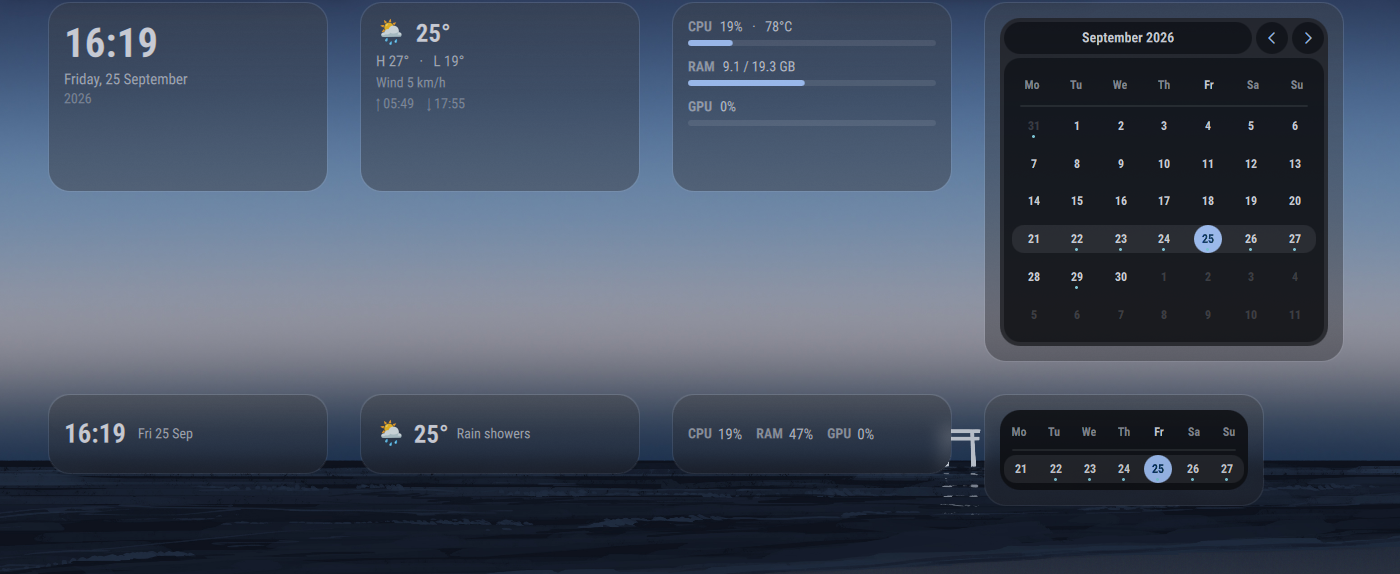
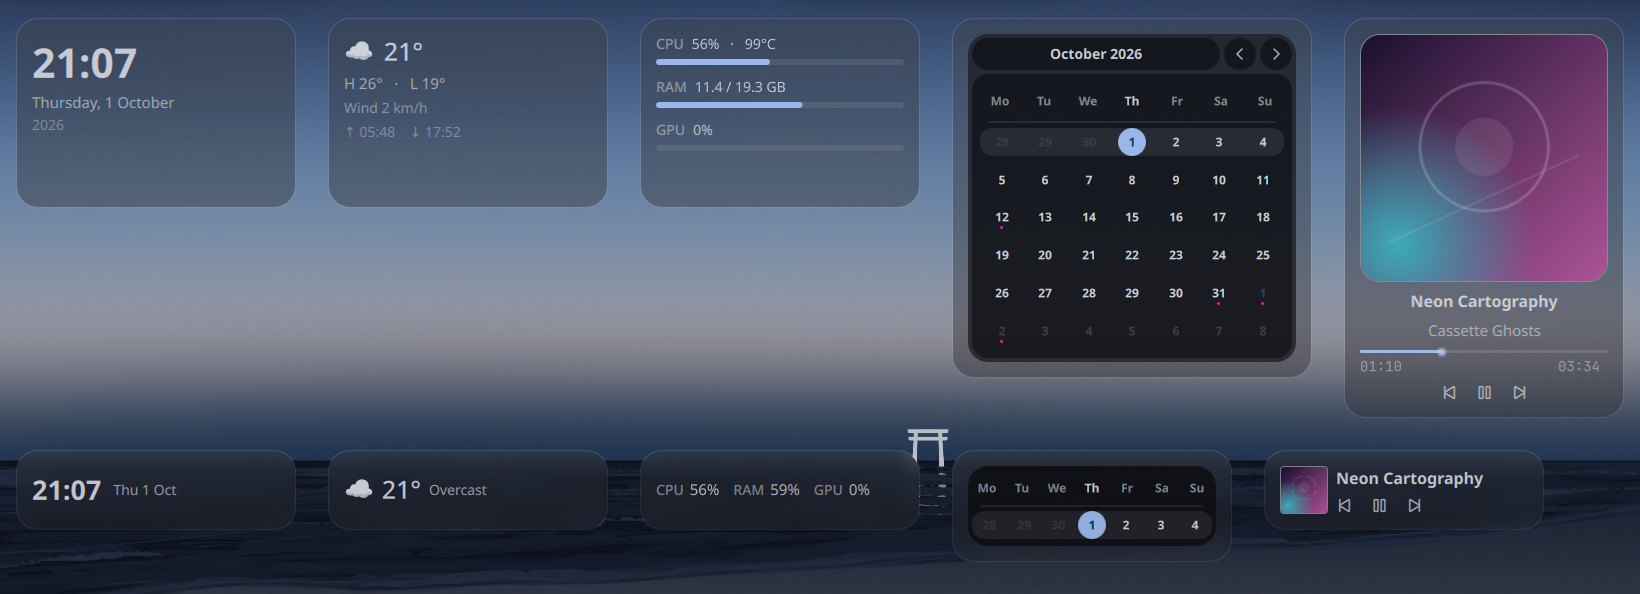
docs(desktop-widgets): the families capture with the player card, and two harness fixes behind it
The README's families shot predated the player card: four widgets, and a caption that said so.
It is now all five in both of their families — taken on a headless output with a throwaway
layout (the user's restored byte-exact), cropped below the bar, and with a fixture player so the
rows a reader is asked to trust are actually filled.

Getting there needed two fixes in the harness, both of them the same kind of silence:

* The layout file is written ATOMICALLY now. The shell WATCHES it, and a partial read parses to
  ZERO widgets: every card left the screen while the harness's own green light — "the layout
  applied (22% changed)" — read a LARGE diff, because the cards are exactly what went missing.
  It photographed an empty desktop and reported success. Write beside the file, `os.replace`.
* `assert_cards` asks the capture for a hard edge inside the first card's own box before the run
  reports success: a card's border is an edge and the wallpaper behind it is a gradient, so a
  box that is all gradient is a box where nothing was painted. That is the failure a pixel diff
  cannot see, and it is now the one that stops the run.

The restore is atomic too, for a stronger reason than the write: it runs over the user's OWN
file, and a half-read layout there is every card gone from their desktop. (This was not
hypothetical: an exception between the two left the throwaway layout in place for a few
minutes, and it was visible on their screens.)
[…]

diff --git a/packages/desktop-widgets/tests/family-size-preview.py b/packages/desktop-widgets/tests/family-size-preview.py
@@ -1,22 +1,29 @@
 #!/usr/bin/env python3
-"""Capture the four widgets in their tiers side by side on a HEADLESS output.
+"""Capture the widgets in their tiers side by side on a HEADLESS output.
 
-Two rows of the same four cards: the top row at the families the designs place (clock,
-weather and system at `full`, the calendar at `full`), the bottom row at each card's
-`compact` — the tier the menu applies when you pick Minimal, which is also the size that
-tier declares (280x80, and 280x112 for the calendar's week).
+Two rows of the same cards: the top row at the families the designs place (clock, weather and
+system at `full`, the calendar at `full`), the bottom row at each card's `compact` — the tier
+the menu applies when you pick Minimal, which is also the size that tier declares (280x80, and
+280x112 for the calendar's week). The media card rides in BOTH rows, because its `compact` is
+the one family that changes the ARRANGEMENT and not just the number of rows.
 
-    family-size-preview.py            # the two rows above, into the default out dir
+    family-size-preview.py                 # glass, nothing playing
+    family-size-preview.py --idle          # ... with the player card kept up while idle
+    family-size-preview.py --idle --solid  # ... painted instead of glazed
 
-The user's own layout is backed up and restored byte-exact, and nothing is measured on
-their screens: a Bottom-layer surface is invisible under any maximized window there, and
-staging a design on the screen they are working on is exactly what this avoids. The two
-traps this shares with tests/calendar-scale-preview.py (a headless output comes up at
-scale 2; a fixed sleep catches the PREVIOUS layout) are handled the same way: force
-scale 1 and wait for the screen to stop changing.
+The user's own layout is backed up and restored byte-exact — ATOMICALLY, because the shell
+watches that file and a half-read layout is every card gone — and nothing is measured on their
+screens: a Bottom-layer surface is invisible under any maximized window there, and staging a
+design on the screen they are working on is exactly what this avoids. The traps this shares
+with tests/calendar-scale-preview.py (a headless output comes up at scale 2; a fixed sleep
+catches the PREVIOUS layout) are handled the same way: force scale 1 and wait for the screen to
+stop changing. And because a LARGE pixel diff does not prove the layout painted — losing every
+card is a large diff too — `assert_cards` asks the capture for a hard edge inside the first
+card's own box before this run is allowed to report success.
 """
 import json
 import os
+import shutil
 import subprocess
 import sys
 import time
@@ -27,7 +34,7 @@ from PIL import Image
 CFG = os.path.expanduser("~/.config/ambxst/desktop-widgets.json")
 OUTDIR = os.path.expanduser("~/.local/state/ambxst/family-size-preview")
 
-GAP, LEFT, TOP = 32, 48, 48
+GAP, LEFT, TOP = 32, 48, 64
 ROWS = [
     # Every type in both of its families, so the row is a comparison and not a sample: the
     # media card is the one whose `compact` is a different ARRANGEMENT (cover beside the
@@ -38,7 +45,7 @@ ROWS = [
     ("compact", [("clock", 280, 80), ("weather", 280, 80), ("system", 280, 80),
                  ("calendar", 280, 112), ("media", 280, 80)]),
 ]
-CROP_W, CROP_H = 1690, 620
+CROP_W, CROP_H = 1690, 660
 # `--idle` photographs the OTHER state of the media card: with `keepWhenIdle` on, a card
 # whose player is silent stays on the desktop and says so, so the shot has to be taken with
 # the option in the throwaway layout (the user's own file never carries it) AND with nothing
@@ -91,6 +98,51 @@ def force_scale1(out):
     raise SystemExit(f"could not force scale 1 on {out}")
 
 
+def write_layout(data, path=CFG):
+    """Write the layout ATOMICALLY.
+
+    The shell WATCHES this file. A partial read parses to zero widgets, so every card
+    disappears from the screen — and the pixel diff against the previous shot is still LARGE,
+    because the cards are exactly what went missing. Measured here: a 22% diff, no cards, and
+    the same run passing on a retry. Write beside the file and replace it, so a reader sees
+    either the old file or the whole new one.
+    """
+    tmp = path + ".writing"
+    with open(tmp, "w") as fh:
+        json.dump(data, fh, indent=2)
+    os.replace(tmp, path)
+
+
+def restore(backup, path=CFG):
+    """Put the user's own layout back, byte-exact and ATOMICALLY.
+
+    Byte-exact because a re-serialised copy is not the file they had (indent, key order), and
+    atomic because this runs over a file the shell watches: a half-written layout reads as ZERO
+    widgets, i.e. their desktop with every card gone. Idempotent on purpose, which is what lets
+    the `finally` at the end of main() call it whether or not the body already did.
+    """
+    tmp = path + ".writing"
+    shutil.copyfile(backup, tmp)
+    os.replace(tmp, path)
+
+
+def assert_cards(png, box):
+    """The layout must have been PAINTED where it says it was.
+
+    A card's border and its text make hard edges; the wallpaper behind them is a gradient. A
+    box that is all gradient is a box where nothing was drawn, whatever the pixel diff says —
+    which is the failure the diff cannot see.
+    """
+    gray = np.asarray(Image.open(png).convert("L")).astype(float)
+    x, y, w, h = box
+    sharp = float(np.abs(np.diff(gray[y:y + h, x:x + w], axis=1)).max())
+    if sharp < 25:
+        raise SystemExit(f"nothing was drawn at {x},{y} {w}x{h} (sharpest edge {sharp:.0f}): "
+                         f"the throwaway layout never rendered, so this run was about to "
+                         f"photograph an empty desktop")
+    print(f"cards painted: the {w}x{h} card at {x},{y} shows a {sharp:.0f}-level edge")
+
+
 def throwaway_layout():
     """The two rows, anchored to the top-left of the output so the crop holds them."""
     cards, y = [], TOP
@@ -131,21 +183,32 @@ def main():
         throwaway["keepWhenIdle"] = True
     if SOLID:
         throwaway["background"] = "solid"
-    json.dump(throwaway, open(CFG, "w"), indent=2)
+    write_layout(throwaway)
     shot = os.path.join(OUTDIR, "tiers" + ("-idle" if IDLE else "")
                         + ("-solid" if SOLID else "") + ".png")
-    settle(m, shot)
+    try:
+        settle(m, shot)
 
-    moved = changed_fraction(os.path.join(OUTDIR, "before.png"), shot)
-    if moved < 0.01:
-        raise SystemExit(f"the throwaway layout did NOT take effect ({moved:.4%} changed)")
+        moved = changed_fraction(os.path.join(OUTDIR, "before.png"), shot)
+        if moved < 0.01:
+            raise SystemExit(f"the throwaway layout did NOT take effect ({moved:.4%} changed)")
 
-    subprocess.run(["cp", backup, CFG], check=True)
-    settle(m, os.path.join(OUTDIR, "restored.png"))
+        assert_cards(shot, (LEFT, TOP, ROWS[0][1][0][1], ROWS[0][1][0][2]))
+
+        restore(backup)
+        settle(m, os.path.join(OUTDIR, "restored.png"))
+    finally:
+        # The layout and the output are the two things this harness BORROWS from the user, and
+        # both go back whatever happened above — not only on the happy path. Not hypothetical:
+        # an exception between the write and the restore (a NameError, of all things) left a
+        # throwaway layout on their desktop for minutes AND a headless output in their monitor
+        # list, because the removal sat at the end of the function.
+        restore(backup)
+        sh("hyprctl", "output", "remove", out)
+
     same = subprocess.run(["diff", "-q", backup, CFG]).returncode == 0
     after_clients = sorted((c["class"], c["monitor"]) for c in
                            json.loads(sh("hyprctl", "clients", "-j")))
-    sh("hyprctl", "output", "remove", out)
     print(f"layout applied ({moved:.2%} changed), restored byte-exact: {same}")
     print("windows moved:", "none" if before_clients == after_clients else
           f"{before_clients} -> {after_clients}")

diff --git a/README.md b/README.md
@@ -153,9 +153,9 @@ ambxst mods enable and0null.desktop-widgets
 
 ### Screenshots
 
-Four of the five widgets, in two of their three content families — the large cards are
-`full`, the row below them is `compact` (the calendar's compact is the week strip, not a
-squeezed month). The player card (`media`) is not in this capture yet:
+All five widgets, in two of their three content families — the large cards are `full`, the
+row below them is `compact` (the calendar's compact is the week strip rather than a squeezed
+month, and the player card's is the strip: the cover beside the title, no artist line):
 
 ![Desktop widgets, in their families](screenshots/desktop-widgets-families.png)
 
